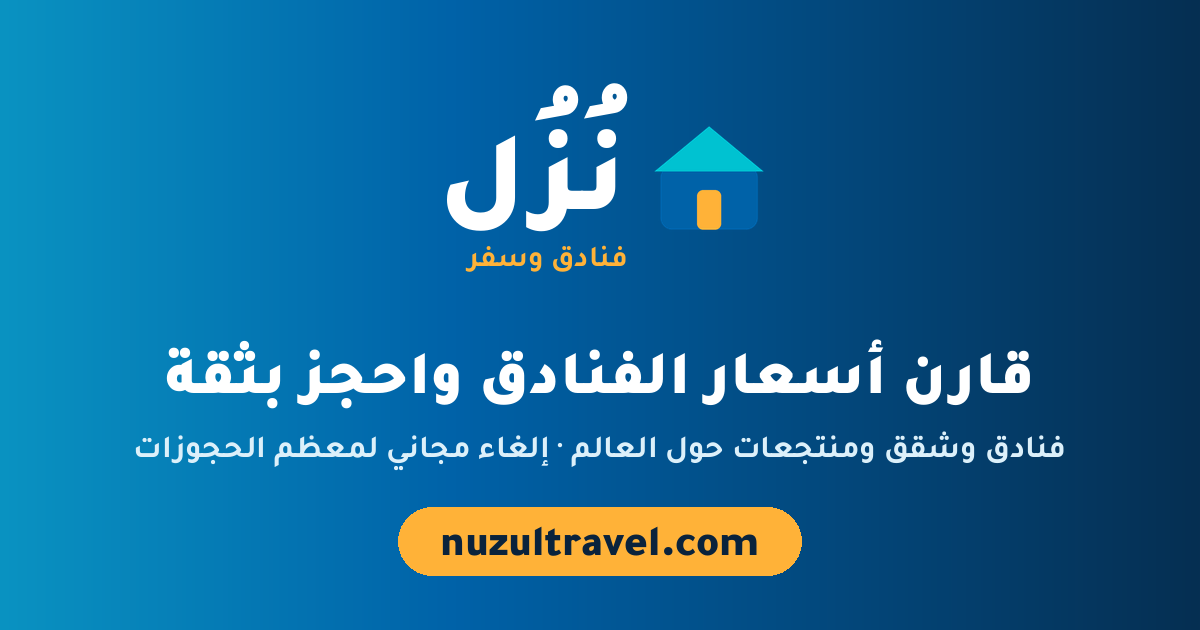
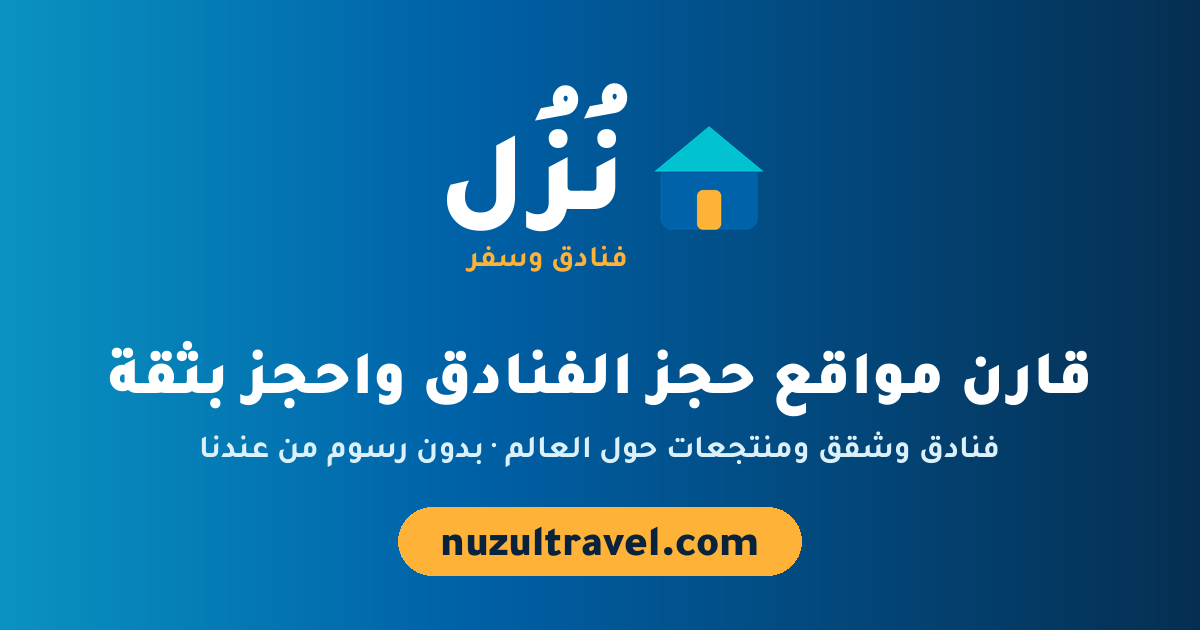
Wording: finish honest-wording pass in descriptions, share card and benefits (Phase 2, package D)
Owner approved on 24 Nov 2026. Search-engine description, share title and
description, results-page title and description and the app manifest name no
longer promise a price comparison by NUZUL or a best price. The share image
(og.png) carries the same new text; only its two text lines were redrawn
(studio/scripts/og_text.py), the rest is pixel-identical. The free-cancellation
line now says terms are shown on the booking site. Hotel badge 'lower price'
becomes 'budget' in Arabic (English already said Budget).
tests/wording.js extended to 56 checks.

Claude-Session: https://claude.ai/code/session_019qPb8JiwTGxDUVHSZt3Pdq

Changed region(s): [[0.0925, 0.5429, 0.925, 0.6635], [0.0925, 0.6937, 0.8942, 0.754]]

diff --git a/index.html b/index.html
@@ -5,7 +5,7 @@
 <meta http-equiv="Content-Security-Policy" content="default-src 'self'; script-src 'self' 'unsafe-inline' https://static.cloudflareinsights.com; style-src 'self' 'unsafe-inline' https://fonts.googleapis.com; font-src 'self' https://fonts.gstatic.com; img-src 'self' data: https://upload.wikimedia.org https://commons.wikimedia.org; connect-src 'self' https://en.wikipedia.org https://ar.wikipedia.org https://commons.wikimedia.org https://cloudflareinsights.com https://*.cloudflareinsights.com; media-src 'self'; manifest-src 'self'; worker-src 'self'; frame-src 'none'; object-src 'none'; base-uri 'self'; form-action 'self'">
 <meta name="viewport" content="width=device-width, initial-scale=1">
 <title>نُزُل — اختر فندقك وقارن بين مواقع الحجز</title>
-<meta name="description" content="نُزُل: قارن أسعار الفنادق والشقق والمنتجعات في دبي ومكة وإسطنبول وحول العالم، واحجز بثقة مع إلغاء مجاني لمعظم الحجوزات. تذاكر طيران، سيارات، eSIM وجولات.">
+<meta name="description" content="نُزُل: ابحث مرة وحدة وقارن بين أشهر مواقع حجز الفنادق والشقق والمنتجعات في دبي ومكة وإسطنبول وحول العالم، بدون رسوم من عندنا. تذاكر طيران، سيارات، eSIM وجولات.">
 <link rel="canonical" href="https://nuzultravel.com/">
 <meta name="theme-color" content="#062F52">
 <link rel="icon" href="/favicon.svg" type="image/svg+xml">
@@ -18,13 +18,13 @@
 <meta property="og:site_name" content="نُزُل">
 <meta property="og:locale" content="ar_AR">
 <meta property="og:url" content="https://nuzultravel.com/">
-<meta property="og:title" content="نُزُل — قارن أسعار الفنادق واحجز بثقة">
-<meta property="og:description" content="فنادق وشقق ومنتجعات حول العالم بأفضل الأسعار، مع إلغاء مجاني لمعظم الحجوزات.">
-<meta property="og:image" content="https://nuzultravel.com/og.png">
+<meta property="og:title" content="نُزُل — قارن مواقع حجز الفنادق واحجز بثقة">
+<meta property="og:description" content="فنادق وشقق ومنتجعات حول العالم. ابحث مرة وحدة وقارن بين أشهر مواقع الحجز، بدون رسوم من عندنا.">
+<meta property="og:image" content="https://nuzultravel.com/og.png?v=20261124">
 <meta property="og:image:width" content="1200">
 <meta property="og:image:height" content="630">
 <meta name="twitter:card" content="summary_large_image">
-<meta name="twitter:image" content="https://nuzultravel.com/og.png">
+<meta name="twitter:image" content="https://nuzultravel.com/og.png?v=20261124">
 <script type="application/ld+json">
 {"@context":"https://schema.org","@graph":[
 {"@type":"Organization","@id":"https://nuzultravel.com/#org","name":"نُزُل","alternateName":"Nuzul","url":"https://nuzultravel.com/","logo":"https://nuzultravel.com/apple-touch-icon.png","email":"info@nuzultravel.com","sameAs":["https://www.facebook.com/profile.php?id=61596857333439","https://www.instagram.com/nuzul.travel","https://x.com/NuzulTravel","https://www.threads.com/@nuzul.travel","https://t.me/nuzul_travel","https://whatsapp.com/channel/0029Vb8niNp3wtb9Lh3q2l3X","https://www.tiktok.com/@nuzul_travel","https://www.snapchat.com/add/nuzul.travel","https://www.youtube.com/@nuzul.travel","https://www.pinterest.com/nuzultravel","https://medium.com/@nuzul.travel","https://nuzul-fnadq-wsfr.quora.com/"]},
@@ -237,7 +237,7 @@
     </div>
     <div class="why">
       <div><b data-i="w1t">✔ بدون رسوم من عندنا</b><p data-i="w1p">نفس السعر بدون أي رسوم إضافية علينا.</p></div>
-      <div><b data-i="w2t">✔ إلغاء مجاني</b><p data-i="w2p">معظم الغرف تتيح الإلغاء المجاني قبل موعد الوصول.</p></div>
+      <div><b data-i="w2t">✔ إلغاء مجاني</b><p data-i="w2p">كثير من الغرف فيها إلغاء مجاني، وشروط كل غرفة تظهر لك في موقع الحجز قبل الدفع.</p></div>
       <div><b data-i="w3t">✔ دعم على مدار الساعة</b><p data-i="w3p">خدمة عملاء موقع الحجز متاحة 24/7 بعدة لغات منها العربية.</p></div>
     </div>
   </div>
@@ -295,7 +295,7 @@
       s2t: 'قارن واختر', s2p: 'قارن نفس البحث على Hotels.com و Expedia و Booking.com، وفلتر حسب الميزانية والنجوم والقرب من الحرم.',
       s3t: 'احجز بأمان', s3p: 'أكمل الحجز والدفع مباشرة عند موقع الحجز اللي تختاره.',
       w1t: '✔ بدون رسوم من عندنا', w1p: 'نفس السعر بدون أي رسوم إضافية علينا.',
-      w2t: '✔ إلغاء مجاني', w2p: 'معظم الغرف تتيح الإلغاء المجاني قبل موعد الوصول.',
+      w2t: '✔ إلغاء مجاني', w2p: 'كثير من الغرف فيها إلغاء مجاني، وشروط كل غرفة تظهر لك في موقع الحجز قبل الدفع.',
       w3t: '✔ دعم على مدار الساعة', w3p: 'خدمة عملاء موقع الحجز متاحة 24/7 بعدة لغات منها العربية.',
       rights: 'جميع الحقوق محفوظة.', contact: 'تواصل معنا:', follow: 'تابعنا:', privacy: 'سياسة الخصوصية', waCh: 'قناة واتساب',
       disc: 'نُزُل موقع مستقل يعرض لك خيارات الإقامة. يتم إتمام الحجز والدفع عبر مواقع الحجز نفسها مثل Booking.com و Hotels.com، وقد نحصل على عمولة من الحجوزات التي تتم عبر روابطنا دون أي تكلفة إضافية عليك.',
@@ -317,7 +317,7 @@
       s2t: 'Compare and choose', s2p: 'Compare the same search on Hotels.com, Expedia and Booking.com, filtered by budget, stars and distance to the Haram.',
       s3t: 'Book securely', s3p: 'Complete your booking and payment directly on the booking site you choose.',
       w1t: '✔ No fees from us', w1p: 'Same price, with no extra fees from us.',
-      w2t: '✔ Free cancellation', w2p: 'Most rooms offer free cancellation before arrival.',
+      w2t: '✔ Free cancellation', w2p: 'Many rooms offer free cancellation. The terms of each room are shown on the booking site before you pay.',
       w3t: '✔ 24/7 support', w3p: 'The booking site offers round-the-clock customer service in many languages.',
       rights: 'All rights reserved.', contact: 'Contact us:', follow: 'Follow us:', privacy: 'Privacy policy', waCh: 'WhatsApp Channel',
       disc: 'Nuzul is an independent website that shows you places to stay. Bookings and payments are completed on the booking sites themselves, such as Booking.com and Hotels.com, and we may earn a commission on bookings made through our links at no extra cost to you.',

diff --git a/results.html b/results.html
@@ -4,8 +4,8 @@
 <meta charset="UTF-8">
 <meta http-equiv="Content-Security-Policy" content="default-src 'self'; script-src 'self' 'unsafe-inline' https://static.cloudflareinsights.com; style-src 'self' 'unsafe-inline' https://fonts.googleapis.com; font-src 'self' https://fonts.gstatic.com; img-src 'self' data: https://upload.wikimedia.org https://commons.wikimedia.org; connect-src 'self' https://en.wikipedia.org https://ar.wikipedia.org https://commons.wikimedia.org https://cloudflareinsights.com https://*.cloudflareinsights.com; media-src 'self'; manifest-src 'self'; worker-src 'self'; frame-src 'none'; object-src 'none'; base-uri 'self'; form-action 'self'">
 <meta name="viewport" content="width=device-width, initial-scale=1">
-<title>نُزُل — قارن أسعار الفنادق</title>
-<meta name="description" content="قارن أسعار الفنادق على Booking.com و Hotels.com من مكان واحد، مع فلاتر للميزانية والنجوم ونوع الإقامة والقرب من الحرم.">
+<title>نُزُل — قارن مواقع حجز الفنادق</title>
+<meta name="description" content="قارن بين Booking.com و Hotels.com و Expedia من مكان واحد، مع فلاتر للميزانية والنجوم ونوع الإقامة والقرب من الحرم.">
 <meta name="robots" content="noindex,follow">
 <link rel="canonical" href="https://nuzultravel.com/results.html">
 <meta name="theme-color" content="#062F52">
@@ -269,7 +269,7 @@
       waMsg:(n,ci,co,a)=>'السلام عليكم، أبي مساعدة في اختيار فندق في '+n+' من '+ci+' إلى '+co+' لـ '+a+' أشخاص.',
       genTip:'احجز بدري قدر الإمكان، وفعّل «إلغاء مجاني» عشان تقدر تغيّر لو لقيت سعر أحسن.',
       hsSub:'اضغط على الفندق عشان تقارن السعر لتواريخك على المواقع الثلاثة.',hsNote:'* المسافات ووقت المشي تقريبية. السعر النهائي يظهر في موقع الحجز. الصور من ويكيميديا كومنز بحقوق أصحابها، و«صورة المنطقة» تعني إن الصورة للمنطقة مو للفندق نفسه.',
-      cardsAll:n=>'أو شوف كل فنادق '+n+' على المواقع الثلاثة', all:'الكل', walk:'🚶 ', cheaper:'💲 الأوفر', cheaperB:'💲 سعر أوفر', areaPic:'📷 صورة المنطقة', cmp:'شوف الأسعار ←', shQ:'شوف السعر لتواريخك على:', shGo:'شوف السعر', shClose:'إغلاق', shNote:'السعر يختلف بين المواقع، فقارن الثلاثة قبل ما تحجز. الحجز والدفع يتمان عند الموقع اللي تختاره. على الجوال: اختر «متابعة إلى الموقع» إذا ما عندك تطبيقهم.', favTab:n=>'♥ مفضلتي ('+n+')', favAdd:'أضف للمفضلة', favRm:'حذف من المفضلة', chH:'🔔 العروض توصلك أول بأول', chP:'عروض الفنادق والمواسم كل أسبوع في قناتنا، بدون إزعاج.', chWa:'قناة واتساب', chTg:'تيليجرام', noH:'ما فيه فنادق مختارة تطابق الفلاتر. شوف كل الفنادق تحت 👇'},
+      cardsAll:n=>'أو شوف كل فنادق '+n+' على المواقع الثلاثة', all:'الكل', walk:'🚶 ', cheaper:'💲 الأوفر', cheaperB:'💲 اقتصادي', areaPic:'📷 صورة المنطقة', cmp:'شوف الأسعار ←', shQ:'شوف السعر لتواريخك على:', shGo:'شوف السعر', shClose:'إغلاق', shNote:'السعر يختلف بين المواقع، فقارن الثلاثة قبل ما تحجز. الحجز والدفع يتمان عند الموقع اللي تختاره. على الجوال: اختر «متابعة إلى الموقع» إذا ما عندك تطبيقهم.', favTab:n=>'♥ مفضلتي ('+n+')', favAdd:'أضف للمفضلة', favRm:'حذف من المفضلة', chH:'🔔 العروض توصلك أول بأول', chP:'عروض الفنادق والمواسم كل أسبوع في قناتنا، بدون إزعاج.', chWa:'قناة واتساب', chTg:'تيليجرام', noH:'ما فيه فنادق مختارة تطابق الفلاتر. شوف كل الفنادق تحت 👇'},
     en:{brand:'Nuzul',tagline:'Book your stay with confidence',other:'العربية',edit:'✏ Edit search',update:'Update',destL:'Destination',cinL:'Check-in',coutL:'Check-out',adultsL:'Adults',roomsL:'Rooms',
       title:n=>'Hotels in '+n, nights:n=>n+(n===1?' night':' nights'), adults:n=>n+' adults', rooms:n=>n+(n===1?' room':' rooms'),
       qH:'Compare prices on:',fH:'🎯 Narrow it down (optional)',fNear:'Location',fType:'Stay type',fBudget:'Budget/night',fStars:'Stars',fMore:'Extras',fSort:'Sort by',

diff --git a/tests/wording.js b/tests/wording.js
@@ -1,29 +1,38 @@
 // Honest-wording check (no browser needed): NUZUL shows no prices, so the pages must not promise
-// a best price or a price comparison done by NUZUL itself.
-// Usage: node tests/wording.js        (run from the repository root)
+// a best price, a price comparison done by NUZUL itself, or free cancellation it cannot verify.
+// Usage: node tests/wording.js [folder]      (default folder: the repository root)
 const fs = require('fs');
 const path = require('path');
-const root = path.join(__dirname, '..');
+const root = path.resolve(process.argv[2] || path.join(__dirname, '..'));
 // Phrases retired on 24 Nov 2026 with the owner's approved replacements.
 const BANNED = [
-  'احجز فندقك بأفضل سعر', 'قارن أسعار الفنادق<br>', 'أسعار شفافة', "cmp:'قارن الأسعار",
-  'Book your hotel at the best price', 'Compare hotel prices<br>', 'Transparent prices', "cmp:'Compare prices"
+  'أفضل سعر', 'بأفضل الأسعار', 'قارن أسعار الفنادق', 'أسعار شفافة', "cmp:'قارن الأسعار", "cheaperB:'💲 سعر أوفر'",
+  'إلغاء مجاني لمعظم الحجوزات', 'معظم الغرف تتيح الإلغاء المجاني',
+  'best price', 'Compare hotel prices', 'Transparent prices', "cmp:'Compare prices", 'Most rooms offer free cancellation'
 ];
 const REQUIRED = [
-  ['index.html', 'نُزُل — اختر فندقك وقارن بين مواقع الحجز'], ['index.html', 'قارن مواقع الحجز<br>'], ['index.html', '✔ بدون رسوم من عندنا'],
+  ['index.html', '<title>نُزُل — اختر فندقك وقارن بين مواقع الحجز</title>'],
+  ['index.html', 'قارن مواقع الحجز<br>'], ['index.html', '✔ بدون رسوم من عندنا'],
+  ['index.html', 'content="نُزُل — قارن مواقع حجز الفنادق واحجز بثقة"'],
+  ['index.html', 'ابحث مرة وحدة وقارن بين أشهر مواقع الحجز، بدون رسوم من عندنا.'],
+  ['index.html', 'وشروط كل غرفة تظهر لك في موقع الحجز قبل الدفع.'],
   ['index.html', 'Compare booking sites<br>'], ['index.html', '✔ No fees from us'],
-  ['results.html', "cmp:'شوف الأسعار ←'"], ['results.html', "cmp:'See prices →'"]
+  ['index.html', 'The terms of each room are shown on the booking site before you pay.'],
+  ['index.html', 'https://nuzultravel.com/og.png?v=20261124'],
+  ['results.html', '<title>نُزُل — قارن مواقع حجز الفنادق</title>'],
+  ['results.html', "cmp:'شوف الأسعار ←'"], ['results.html', "cmp:'See prices →'"], ['results.html', "cheaperB:'💲 اقتصادي'"],
+  ['manifest.webmanifest', '"name": "نُزُل — قارن مواقع حجز الفنادق"']
 ];
-const FILES = ['index.html', 'results.html'];
+const FILES = ['index.html', 'results.html', 'manifest.webmanifest'];
 let pass = 0; const fails = [];
+const read = f => fs.readFileSync(path.join(root, f), 'utf8');
 for (const f of FILES) {
-  const s = fs.readFileSync(path.join(root, f), 'utf8');
+  const s = read(f);
   for (const b of BANNED) { if (s.includes(b)) fails.push(f + ' still contains retired wording: ' + b); else pass++; }
 }
-for (const [f, r] of REQUIRED) {
-  const s = fs.readFileSync(path.join(root, f), 'utf8');
-  if (s.includes(r)) pass++; else fails.push(f + ' is missing approved wording: ' + r);
-}
+for (const [f, r] of REQUIRED) { if (read(f).includes(r)) pass++; else fails.push(f + ' is missing approved wording: ' + r); }
+try { JSON.parse(read('manifest.webmanifest')); pass++; } catch (e) { fails.push('manifest.webmanifest is not valid JSON'); }
+if (fs.existsSync(path.join(root, 'og.png')) && fs.statSync(path.join(root, 'og.png')).size > 20000) pass++; else fails.push('og.png missing or too small');
 fails.forEach(x => console.log('FAIL', x));
-console.log('total', FILES.length * BANNED.length + REQUIRED.length, 'pass', pass);
+console.log('total', FILES.length * BANNED.length + REQUIRED.length + 2, 'pass', pass);
 if (fails.length) process.exitCode = 1;

diff --git a/studio/scripts/og_text.py b/studio/scripts/og_text.py
@@ -1,0 +1,49 @@
+"""Rewrite the two text lines of the social share image (og.png) without touching the rest of the design.
+
+The background is a purely horizontal gradient, so each row equals the top row. The original lines were drawn
+with Pillow (libraqm) as: headline Tajawal-Black 62 px, white, anchor 'ms' at (600, 393); sub-line Tajawal-Bold
+32 px, colour (220, 240, 250), anchor 'ms' at (600, 457). Rendering the old texts with these values reproduces
+the previous image pixel for pixel, so new text drawn the same way keeps the design identical.
+
+Usage (from the repository root):  python3 studio/scripts/og_text.py
+"""
+import os
+import numpy as np
+from PIL import Image, ImageDraw, ImageFont
+
+ROOT = os.path.join(os.path.dirname(__file__), '..', '..')
+FONTS = os.path.join(ROOT, 'studio', 'fonts')
+SRC = DST = os.path.join(ROOT, 'og.png')
+
+HEADLINE = 'قارن مواقع حجز الفنادق واحجز بثقة'
+SUBLINE = 'فنادق وشقق ومنتجعات حول العالم · بدون رسوم من عندنا'
+BAND = (320, 490)          # rows that hold only these two lines (logo ends at 271, button starts at 507)
+MAX_WIDTH = 1040           # keep at least 80 px free on each side
+
+
+def fit(text, weight, size):
+    """Largest size not above `size` whose width fits MAX_WIDTH."""
+    while True:
+        f = ImageFont.truetype(os.path.join(FONTS, 'Tajawal-%s.ttf' % weight), size)
+        l, t, r, b = f.getbbox(text, direction='rtl', language='ar', anchor='ms')
+        if r - l <= MAX_WIDTH:
+            return f, size, r - l
+        size -= 1
+
+
+def main():
+    im = Image.open(SRC).convert('RGB')
+    a = np.asarray(im).copy()
+    a[BAND[0]:BAND[1] + 1] = a[3][None, :, :]          # repaint the band with the background gradient
+    out = Image.fromarray(a)
+    d = ImageDraw.Draw(out)
+    f1, s1, w1 = fit(HEADLINE, 'Black', 62)
+    f2, s2, w2 = fit(SUBLINE, 'Bold', 32)
+    d.text((600, 393), HEADLINE, font=f1, fill=(255, 255, 255), anchor='ms', direction='rtl', language='ar')
+    d.text((600, 457), SUBLINE, font=f2, fill=(220, 240, 250), anchor='ms', direction='rtl', language='ar')
+    out.save(DST, optimize=True)
+    print('headline size', s1, 'width', w1, '| sub-line size', s2, 'width', w2)
+
+
+if __name__ == '__main__':
+    main()

diff --git a/tests/README.md b/tests/README.md
@@ -26,4 +26,4 @@ Requests to Wikipedia and Cloudflare are simulated or blocked, so results do not
 Types 48 real-world destination spellings on the home page (Arabic/English variants, countries, hotel names, typos, nonsense) and checks what the results page shows, plus the suggestion list and the Enter key. 51 checks.
 
 ## wording.js
-Static check, no browser. NUZUL shows no prices, so the pages must not promise a best price or a price comparison done by NUZUL itself. Fails if a retired phrase comes back or an approved phrase goes missing. 23 checks. Run: `node tests/wording.js`.
+Static check, no browser. NUZUL shows no prices, so the pages must not promise a best price, a price comparison done by NUZUL itself, or free cancellation it cannot verify. Fails if a retired phrase comes back or an approved phrase goes missing (home page, results page, app manifest, share image present). 56 checks. Run: `node tests/wording.js` (optionally pass a folder to check another copy).
